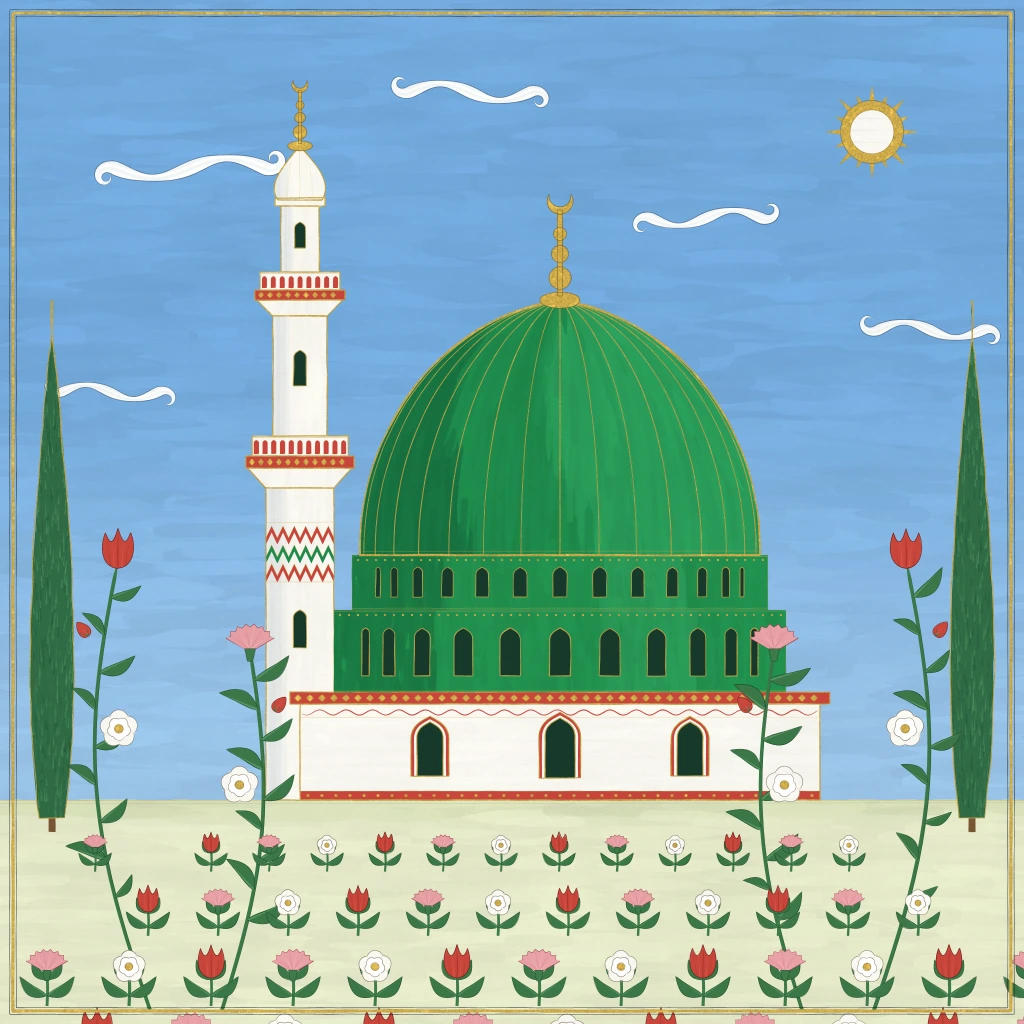
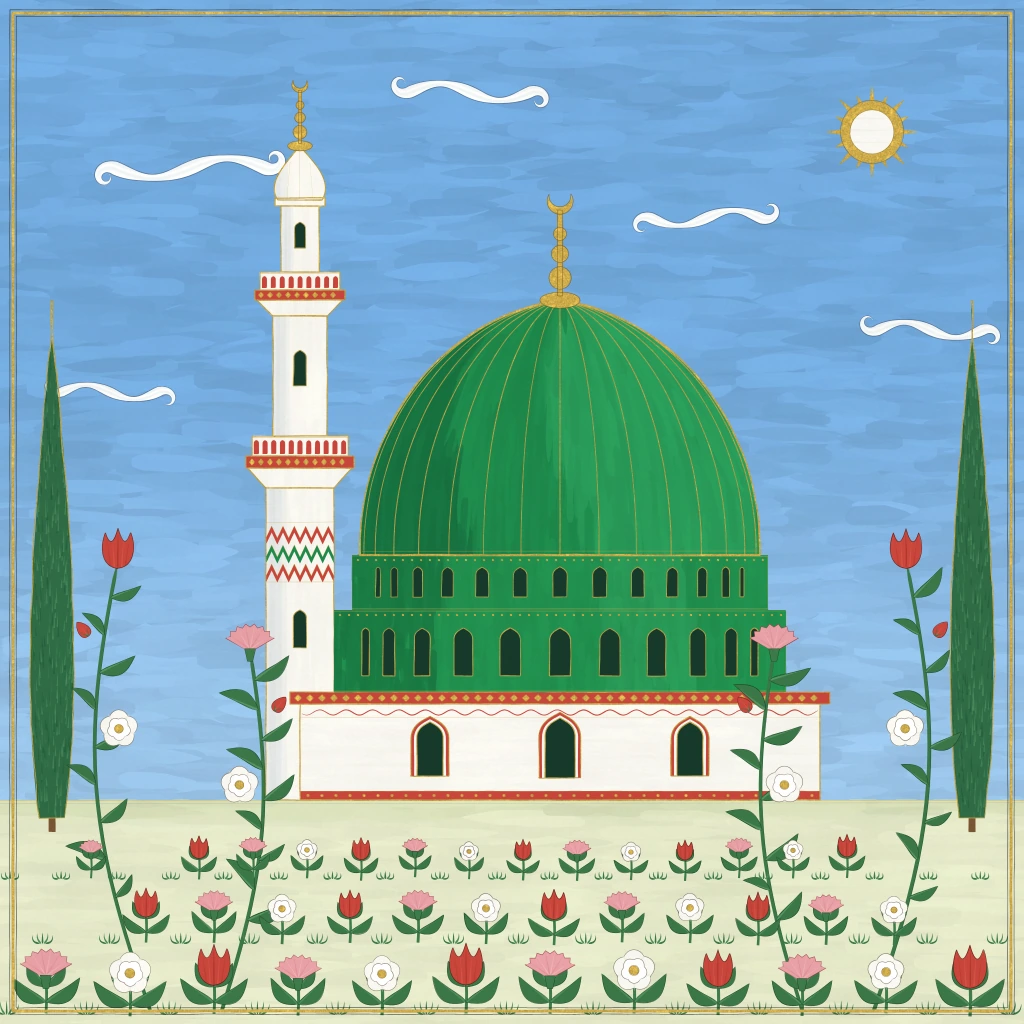
Atölye: altıncı tur ara kaydı
Claude-Session: https://claude.ai/code/session_01Q8CfoBGMPN7gfLWQYpMs1J

Changed region(s): [[0.0, 0.8125, 1.0, 1.0], [0.0, 0.8438, 0.0312, 0.875]]

diff --git a/atolye/stiller/S-222-delail-ravza-tasviri/ornek.html b/atolye/stiller/S-222-delail-ravza-tasviri/ornek.html
@@ -601,13 +601,13 @@
     // örtücü kat: kısa-orta yatay vuruşlar; tonu fırçadan fırçaya azıcık değişir, ufka doğru hafif açılır
     H.vurusDoldur(ctx, {
       box: [0, 0, 1024, 812],
-      ara: 12,
-      uzun: [70, 150],
-      gen: [16, 24],
-      aci: (x, y) => 0.03 * Math.sin(x / 140 + y / 60),
+      ara: 11,
+      uzun: [50, 110],
+      gen: [14, 22],
+      aci: (x, y) => 0.06 * Math.sin(x / 90 + y / 40),
       renk: (x, y, q, r) => {
         const c = H.mix(H.hex('#72A9DC'), H.hex('#9AC4E8'), H.smooth(300, 800, y));
-        const v = (r() - 0.5) * 0.075;
+        const v = (r() - 0.5) * 0.12;
         return H.rgba(c.map((q2) => H.clamp(q2 * (1 + v), 0, 255)));
       },
       alfa: [0.6, 0.9],
@@ -1112,28 +1112,37 @@
     });
     B.cicekler.slice(0, 4).forEach((c) => gul(c.x, c.y, 19));
   }
-  // ön sıralar: tertipli, birbirine yakın; arka sırada küçük, öne doğru büyüyen bitkiler (yarım adım kaydırmalı)
+  // ön sıralar: tertipli, birbirine yakın; arka sırada küçük, öne doğru büyüyen bitkiler (yarım adım kaydırmalı);
+  // aralarda küçük çimen öbekleri
   {
+    const rr = S.rng(2225);
+    const cimen = (x, y, s) => {
+      for (let j = 0; j < 5; j++) {
+        const a = -Math.PI / 2 + (j - 2) * 0.35;
+        H.firca(ctx, H.kavis(x + (j - 2) * 1.5, y, x + (j - 2) * 1.5 + Math.cos(a) * s, y + Math.sin(a) * s, (j - 2) * 1.5, 6), { w: 2, color: j % 2 ? '#4F8D59' : '#3B7748', bas: 0.1, uc: 0.8, seed: T() });
+      }
+    };
     const sira = [
-      { y: 852, ara: 58, s: 15, kay: 8, sapL: 28 },
-      { y: 912, ara: 70, s: 20, kay: 43, sapL: 34 },
-      { y: 978, ara: 82, s: 25, kay: 6, sapL: 40 },
-      { y: 1046, ara: 94, s: 29, kay: 50, sapL: 44 },
+      { y: 858, ara: 54, s: 16, kay: 10, sapL: 28 },
+      { y: 918, ara: 68, s: 22, kay: 44, sapL: 34 },
+      { y: 986, ara: 84, s: 30, kay: 4, sapL: 38 },
     ];
     sira.forEach((r, si) => {
+      // önce çimenler (bitkilerin arasında)
+      for (let x = r.kay; x < 1024; x += r.ara) cimen(x + (rr() - 0.5) * 6, r.y + r.sapL * 0.75, 8 + si * 3);
       let j = 0;
-      for (let x = r.kay + r.ara / 2; x < 1024 + 20; x += r.ara, j++) {
-        const yb = r.y;
-        // yan saplar ve selvilerle çakışmayı önle (arka sıralarda)
+      for (let x = r.kay + r.ara / 2; x < 1024 - 16; x += r.ara, j++) {
+        const s2 = r.s * (0.92 + rr() * 0.16);
+        const yb = r.y + (rr() - 0.5) * 4;
         if (si < 2 && (x < 82 || x > 942)) continue;
         if (si === 0 && ((x > 96 && x < 170) || (x > 854 && x < 928))) continue;
         const tur = (j + si * 2) % 3;
-        sap(x, yb + r.sapL * 0.7, yb - r.s * 0.2, 2.4 + si * 0.4);
-        yaprakCift(x, yb + r.sapL * 0.45, r.s * 1.35, 0.95, '#3B7748');
-        yaprakCift(x, yb + r.sapL * 0.05, r.s * 1.0, 0.62, '#3B7748');
-        if (tur === 0) lale(x, yb - r.s * 0.15, r.s);
-        else if (tur === 1) karanfil(x, yb - r.s * 0.2, r.s * 0.92);
-        else gul(x, yb - r.s * 0.45, r.s * 0.66);
+        sap(x, yb + r.sapL * 0.75, yb - s2 * 0.2, 2.4 + si * 0.5);
+        yaprakCift(x, yb + r.sapL * 0.45, s2 * 1.35, 0.9 + (rr() - 0.5) * 0.2, '#3B7748');
+        yaprakCift(x, yb + r.sapL * 0.05, s2 * 1.0, 0.6 + (rr() - 0.5) * 0.15, '#3B7748');
+        if (tur === 0) lale(x, yb - s2 * 0.15, s2);
+        else if (tur === 1) karanfil(x, yb - s2 * 0.2, s2 * 0.92);
+        else gul(x, yb - s2 * 0.45, s2 * 0.66);
       }
     });
   }
